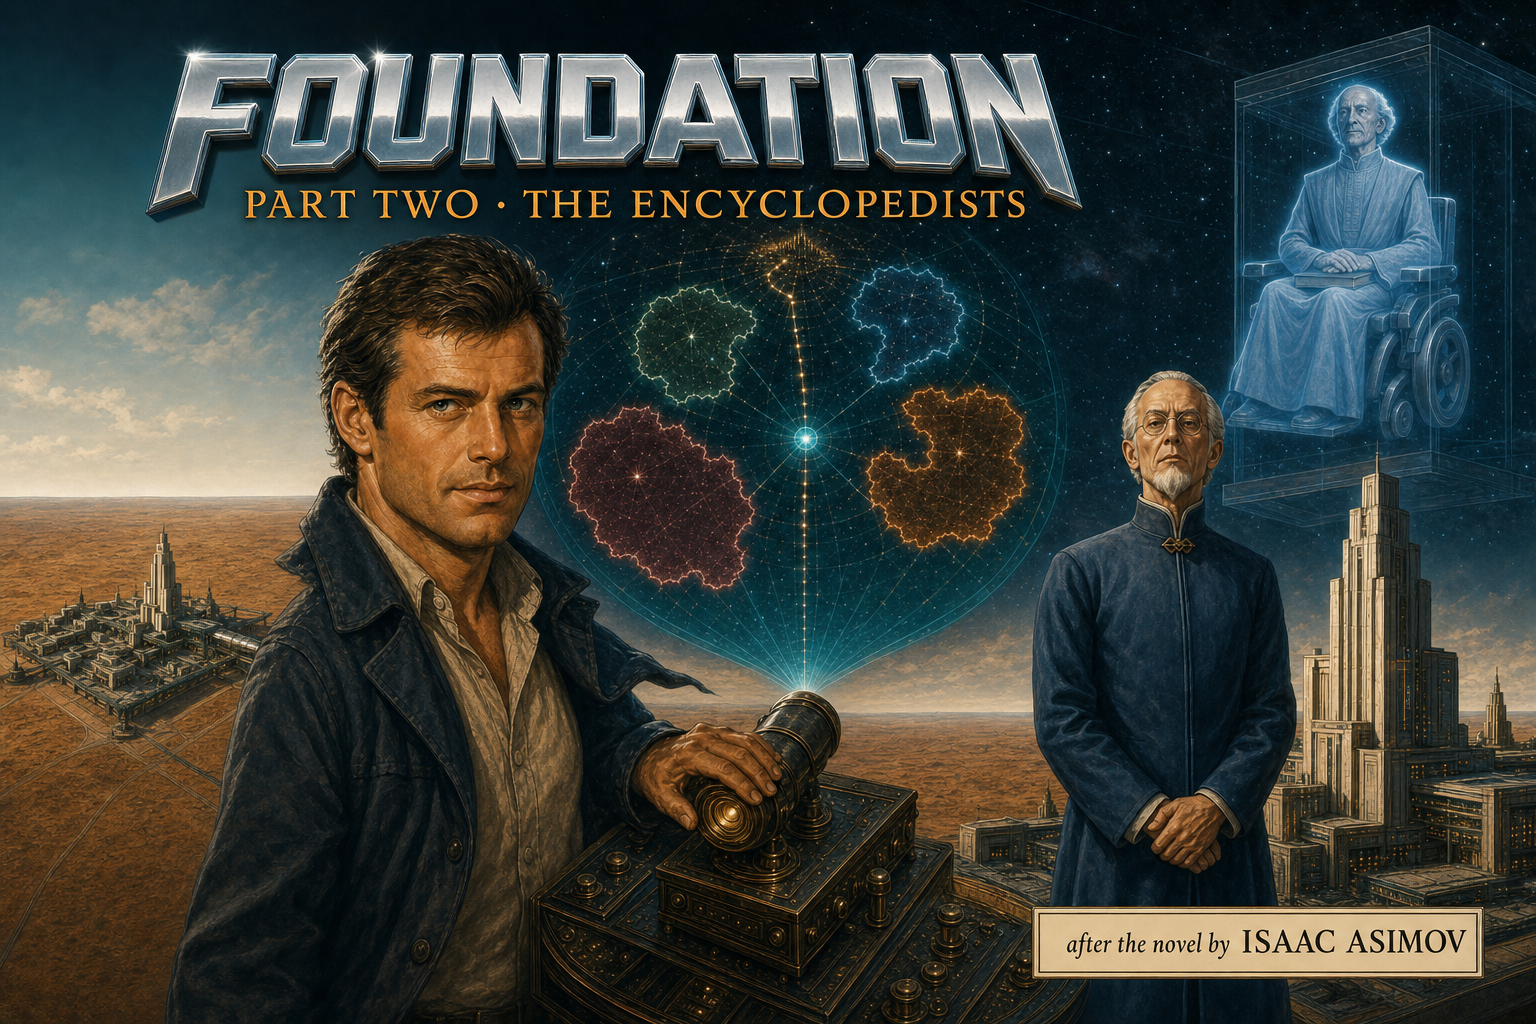
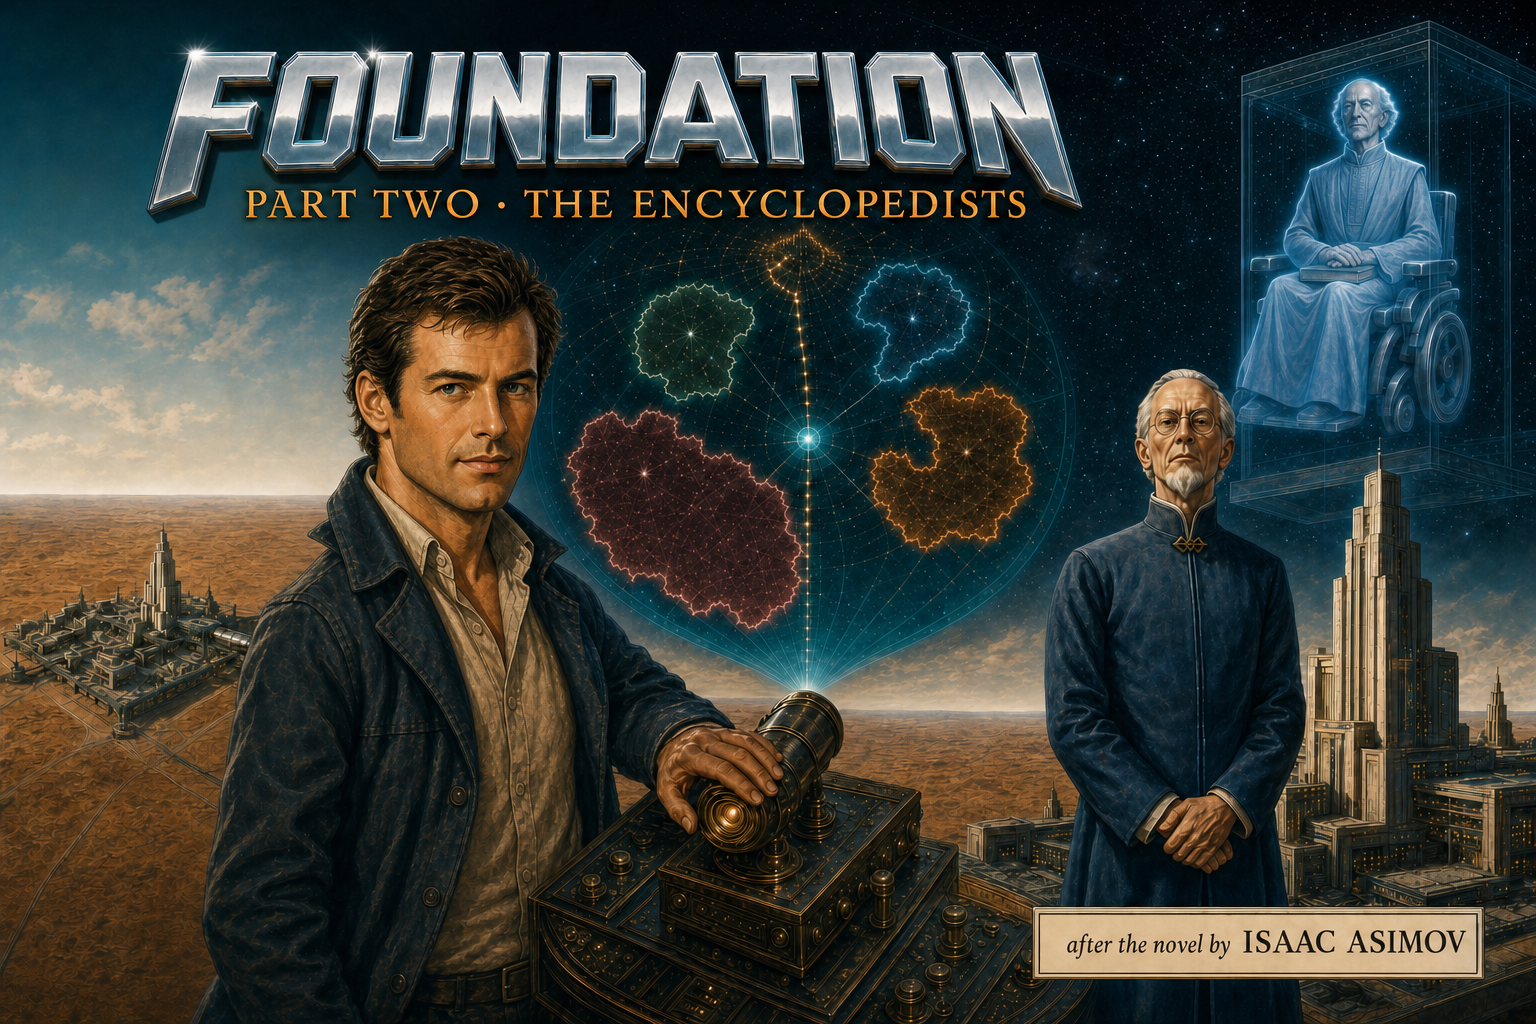
Improve Hardin on Foundation Part Two cover

diff --git a/foundation-expanded-part2/05-PRODUCTION-QA.md b/foundation-expanded-part2/05-PRODUCTION-QA.md
@@ -218,6 +218,12 @@ balloon swap, HTML/SVG lettering, or direct API path was used.
 - Page 26: regenerated after Hardin drifted into Yohan Lee's identity.
 - Prototype Pages 12 and 23 were regenerated during the prototype gate to
   improve speech-tail corridors.
+- Cover, 2026-07-26: regenerated twice as complete 1536x1024 compositions after
+  the original foreground Hardin read as leathery, over-aged, and uncanny. The
+  first correction improved his scale but retained too much facial crosshatching.
+  The accepted correction uses smooth mid-thirties facial modeling, aligned
+  expressive eyes, a lean silhouette, and the locked frontier costume while
+  preserving all three exact cover text elements and the political composition.
 
 ## Regeneration Policy
 
